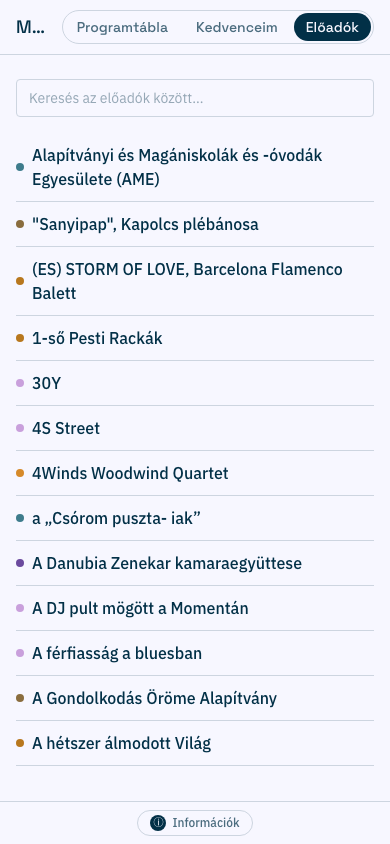
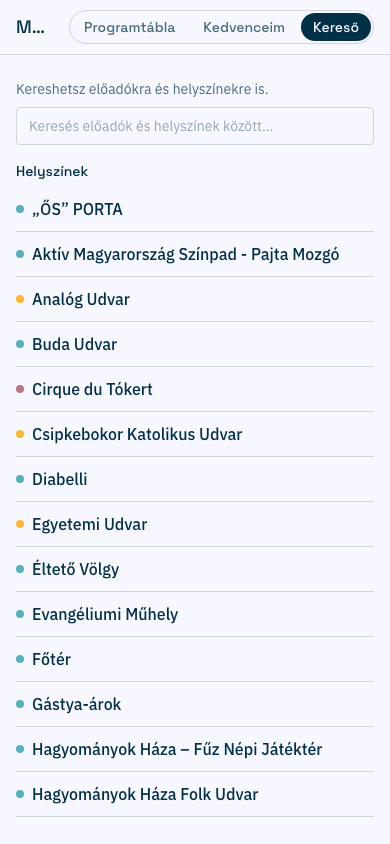
Extend search to venues, jump to their grid row with filters cleared
Renames ArtistsView to SearchView now that it covers both entities.
Clicking a venue result switches to the day it actually runs on (if the
current day doesn't), enables every category/settlement, clears the
favorites-only overrides, and scrolls the grid to that venue's row with
a brief highlight. Tried an icon-only tab label for this, but reverted
to plain text after evaluating it against the app's existing convention.

Changed region(s): [[0.0308, 0.0924, 0.8923, 0.9858], [0.5231, 0.0, 0.9231, 0.0616], [0.1846, 0.0, 0.4615, 0.0616]]

diff --git a/components/FestivalApp.tsx b/components/FestivalApp.tsx
@@ -27,7 +27,7 @@ import { ScheduleGrid } from "./ScheduleGrid";
 import { SelectedPanel } from "./SelectedPanel";
 import { FriendFavoritesPanel } from "./FriendFavoritesPanel";
 import { ExportImportPanel } from "./ExportImportPanel";
-import { ArtistsView } from "./ArtistsView";
+import { SearchView } from "./SearchView";
 import { ProgramInfoModal } from "./ProgramInfoModal";
 import { AppInfoModal } from "./AppInfoModal";
 import { ShareFavoritesModal } from "./ShareFavoritesModal";
@@ -64,7 +64,7 @@ function defaultCategoryIds(categories: FestivalData["categories"]): Set<number>
 }
 
 export function FestivalApp({ data }: { data: FestivalData }) {
-  const [view, setView] = useState<"grid" | "mine" | "artists">("grid");
+  const [view, setView] = useState<"grid" | "mine" | "search">("grid");
   const [categoriesOpen, setCategoriesOpen] = useState(false);
   const [selectedDay, setSelectedDay] = useState(() => defaultDay(data.days));
   const [activeCategoryIds, setActiveCategoryIds] = useState<Set<number>>(
@@ -137,6 +137,31 @@ export function FestivalApp({ data }: { data: FestivalData }) {
     [openProgram, data.programs],
   );
   const artists = useMemo(() => allArtists(data.programs), [data.programs]);
+  // Independent of the currently selected day/filters — every venue that
+  // hosts a program at all, at any point in the festival, so the search can
+  // find it regardless of what's currently shown on the grid.
+  const venuesForSearch = useMemo(
+    () => venuesForPrograms(data.programs),
+    [data.programs],
+  );
+  const [scrollToVenueId, setScrollToVenueId] = useState<number | null>(null);
+
+  const handleSelectVenueFromSearch = (venueId: number) => {
+    const venueDays = data.programs
+      .filter((p) => p.location?.id === venueId)
+      .map((p) => p.day);
+    if (venueDays.length > 0 && !venueDays.includes(selectedDay)) {
+      setSelectedDay([...venueDays].sort()[0]);
+    }
+    // Force every filter open so the venue's programs are guaranteed
+    // visible, regardless of whatever was active before the jump.
+    setActiveCategoryIds(new Set(categoriesWithUncategorized.map((c) => c.id)));
+    setActiveSettlements(new Set(settlements));
+    setOnlyFavorites(false);
+    setOnlyFriendFavorites(false);
+    setView("grid");
+    setScrollToVenueId(venueId);
+  };
 
   const toggleCategory = (id: number) => {
     setActiveCategoryIds((prev) => {
@@ -258,12 +283,12 @@ export function FestivalApp({ data }: { data: FestivalData }) {
             Kedvenceim{selectedPrograms.length > 0 ? ` (${selectedPrograms.length})` : ""}
           </button>
           <button
-            onClick={() => setView("artists")}
+            onClick={() => setView("search")}
             className={`rounded-full px-3 py-1 font-display text-sm transition-colors ${
-              view === "artists" ? "bg-ink text-paper" : "text-ink/70 hover:text-ink"
+              view === "search" ? "bg-ink text-paper" : "text-ink/70 hover:text-ink"
             }`}
           >
-            Előadók
+            Kereső
           </button>
         </div>
       </header>
@@ -407,6 +432,8 @@ export function FestivalApp({ data }: { data: FestivalData }) {
                 onToggleFavorite={toggleFavorite}
                 onOpenProgram={setOpenProgramId}
                 onOpenInfo={() => setIntroManuallyOpened(true)}
+                scrollToVenueId={scrollToVenueId}
+                onScrolledToVenue={() => setScrollToVenueId(null)}
               />
             </div>
           </div>
@@ -475,9 +502,11 @@ export function FestivalApp({ data }: { data: FestivalData }) {
             </div>
           </div>
         ) : (
-          <ArtistsView
+          <SearchView
             artists={artists}
+            venues={venuesForSearch}
             onOpenProgram={setOpenProgramId}
+            onSelectVenue={handleSelectVenueFromSearch}
             onOpenInfo={() => setIntroManuallyOpened(true)}
           />
         )}

diff --git a/components/SearchView.tsx b/components/SearchView.tsx
@@ -1,0 +1,104 @@
+"use client";
+
+import { useState } from "react";
+import type { ArtistSummary } from "@/lib/schedule";
+import type { Location } from "@/lib/types";
+import { settlementColor } from "@/lib/settlementColors";
+import { InfoFooter } from "./InfoFooter";
+
+type Props = {
+  artists: ArtistSummary[];
+  venues: Location[];
+  onOpenProgram: (id: number) => void;
+  onSelectVenue: (venueId: number) => void;
+  onOpenInfo: () => void;
+};
+
+export function SearchView({
+  artists,
+  venues,
+  onOpenProgram,
+  onSelectVenue,
+  onOpenInfo,
+}: Props) {
+  const [query, setQuery] = useState("");
+
+  const normalizedQuery = query.trim().toLowerCase();
+  const filteredArtists = normalizedQuery
+    ? artists.filter((a) => a.name.toLowerCase().includes(normalizedQuery))
+    : artists;
+  const filteredVenues = normalizedQuery
+    ? venues.filter((v) => v.name.toLowerCase().includes(normalizedQuery))
+    : venues;
+
+  return (
+    <div className="mx-auto flex h-full max-w-3xl flex-col px-4 py-6">
+      <p className="mb-2 text-sm text-ink/70">
+        Kereshetsz előadókra és helyszínekre is.
+      </p>
+      <input
+        type="text"
+        value={query}
+        onChange={(e) => setQuery(e.target.value)}
+        placeholder="Keresés előadók és helyszínek között…"
+        className="mb-4 shrink-0 rounded border border-line bg-paper px-3 py-2 text-sm text-ink placeholder:text-ink/40 focus:border-accent focus:outline-none"
+      />
+      <div className="min-h-0 flex-1 overflow-y-auto">
+        <h3 className="mb-1.5 font-display text-sm font-medium text-ink">
+          Helyszínek
+        </h3>
+        {filteredVenues.length === 0 ? (
+          <p className="mb-4 text-sm text-ink/70">
+            Nincs a keresésnek megfelelő helyszín.
+          </p>
+        ) : (
+          <ul className="mb-4 divide-y divide-line">
+            {filteredVenues.map((venue) => (
+              <li key={venue.id}>
+                <button
+                  onClick={() => onSelectVenue(venue.id)}
+                  className="flex w-full items-center gap-2 py-2.5 text-left font-medium text-ink hover:text-accent"
+                >
+                  <span
+                    className="h-2 w-2 shrink-0 rounded-full"
+                    style={{ backgroundColor: settlementColor(venue.city).solid }}
+                    title={venue.city ?? undefined}
+                  />
+                  {venue.name}
+                </button>
+              </li>
+            ))}
+          </ul>
+        )}
+
+        <h3 className="mb-1.5 font-display text-sm font-medium text-ink">
+          Előadók
+        </h3>
+        {filteredArtists.length === 0 ? (
+          <p className="text-center font-body text-ink/70">
+            Nincs a keresésnek megfelelő előadó.
+          </p>
+        ) : (
+          <ul className="divide-y divide-line">
+            {filteredArtists.map((artist) => (
+              <li key={artist.id}>
+                <button
+                  onClick={() => onOpenProgram(artist.firstProgramId)}
+                  className="flex w-full items-center gap-2 py-2.5 text-left font-medium text-ink hover:text-accent"
+                >
+                  <span
+                    className="h-2 w-2 shrink-0 rounded-full"
+                    style={{ backgroundColor: artist.categoryColor }}
+                    title={artist.categoryName}
+                  />
+                  {artist.name}
+                </button>
+              </li>
+            ))}
+          </ul>
+        )}
+        <InfoFooter onOpenInfo={onOpenInfo} />
+      </div>
+    </div>
+  );
+}

diff --git a/components/ScheduleGrid.tsx b/components/ScheduleGrid.tsx
@@ -1,6 +1,6 @@
 "use client";
 
-import { useState } from "react";
+import { useEffect, useRef, useState } from "react";
 import type { Location, Program } from "@/lib/types";
 import {
   extraArtists,
@@ -58,6 +58,8 @@ type Props = {
   onToggleFavorite: (venueId: number) => void;
   onOpenProgram: (id: number) => void;
   onOpenInfo: () => void;
+  scrollToVenueId: number | null;
+  onScrolledToVenue: () => void;
 };
 
 export function ScheduleGrid({
@@ -71,9 +73,34 @@ export function ScheduleGrid({
   onToggleFavorite,
   onOpenProgram,
   onOpenInfo,
+  scrollToVenueId,
+  onScrolledToVenue,
 }: Props) {
   const [openVenueId, setOpenVenueId] = useState<number | null>(null);
   const openVenue = venues.find((v) => v.id === openVenueId) ?? null;
+  const scrollContainerRef = useRef<HTMLDivElement>(null);
+  const [highlightedVenueId, setHighlightedVenueId] = useState<number | null>(
+    null,
+  );
+
+  // Scrolls only vertically (not element.scrollIntoView, which would also
+  // disturb the horizontal time-axis scroll on this w-max-wide row) so a
+  // venue found via search lands just below the sticky header.
+  useEffect(() => {
+    if (scrollToVenueId === null) return;
+    const container = scrollContainerRef.current;
+    const target = document.getElementById(`venue-row-${scrollToVenueId}`);
+    if (container && target) {
+      const containerRect = container.getBoundingClientRect();
+      const targetRect = target.getBoundingClientRect();
+      container.scrollTop += targetRect.top - containerRect.top - HEADER_HEIGHT;
+      setHighlightedVenueId(scrollToVenueId);
+      const timeout = setTimeout(() => setHighlightedVenueId(null), 2000);
+      onScrolledToVenue();
+      return () => clearTimeout(timeout);
+    }
+    onScrolledToVenue();
+  }, [scrollToVenueId, onScrolledToVenue]);
 
   const nowTs = toScheduleTimestamp(useNow());
   const showNowLine = nowTs >= rangeStartTs && nowTs <= rangeEndTs;
@@ -115,7 +142,7 @@ export function ScheduleGrid({
   })();
 
   return (
-    <div className="flex h-full flex-col overflow-auto">
+    <div ref={scrollContainerRef} className="flex h-full flex-col overflow-auto">
       <div
         className="sticky top-0 z-20 flex w-max shrink-0 bg-paper"
         style={{ height: HEADER_HEIGHT }}
@@ -176,10 +203,14 @@ export function ScheduleGrid({
             selectedIds.has(p.id),
           );
         const settlement = settlementColor(venue.city);
+        const isHighlighted = venue.id === highlightedVenueId;
         const row = (
           <div
             key={venue.id}
-            className="flex w-max shrink-0 border-b border-line/60 last:border-b-0"
+            id={`venue-row-${venue.id}`}
+            className={`flex w-max shrink-0 border-b border-line/60 transition-shadow last:border-b-0 ${
+              isHighlighted ? "shadow-[inset_0_0_0_2px_var(--accent)]" : ""
+            }`}
           >
             <div
               className="sticky left-0 z-10 flex shrink-0 flex-col items-center justify-center gap-0.5 border-t-[3px] px-1 py-1 text-center font-display text-ink"

diff --git a/components/TutorialModal.tsx b/components/TutorialModal.tsx
@@ -26,13 +26,13 @@ const STEPS: Step[] = [
       "Kattints egy helyszín nevére a rácson, majd nyomd meg a csillagos gombot, a csillagozott helyszín ezután mindig a lista tetején marad, nem kell mindig legörgetned hozzá.",
   },
   {
-    heading: "2. Az Előadók fül",
+    heading: "2. Kereső",
     src: "/tutorial/02-eloadok.png",
-    alt: "Az Előadók nézet listája",
+    alt: "Kereső nézet előadók és helyszínek listájával",
     width: 390,
     height: 844,
     caption:
-      "Itt ábécésorrendben, kereshetően megtalálod az összes fellépőt, egy névre kattintva megnyílik az előadó legközelebbi fellépése.",
+      "A Kereső fülön kereshetsz előadók és helyszínek között is. Egy előadóra kattintva megnyílik a legközelebbi fellépése; egy helyszínre kattintva a Programtábla nézetbe ugrasz, egyenesen az adott helyszín sorához, minden szűrő feloldva, hogy biztosan lásd az összes ottani programot.",
   },
   {
     heading: "3. Szűrési lehetőségek",

diff --git a/CLAUDE.md b/CLAUDE.md
@@ -1210,3 +1210,64 @@ excluding one friend visibly drops their program from the grid while the
 other's stays — confirmed by both DOM-class assertions and an actual
 before/after count of rendered grid elements, not just the chip's own
 visual state.
+
+**Search extended to venues, not just artists** (`components/ArtistsView.tsx`
+renamed to `components/SearchView.tsx`, since its scope grew beyond just
+"előadók"): the same single search input now filters two separate,
+independently-labeled sections — "Helyszínek" (new) and "Előadók"
+(unchanged) — each showing its full unfiltered list when the query is
+empty, matching the pre-existing artist-search behavior rather than
+inventing a different empty-state convention for venues. The venue list
+comes from a *new*, day/filter-independent `venuesForSearch` memo in
+`FestivalApp.tsx` (`venuesForPrograms(data.programs)` over the *entire*
+unfiltered program set) — deliberately not the same `venues` the grid
+itself renders, which is scoped to the currently selected day/category/
+settlement and would make a venue impossible to find on any other day.
+Only venues that actually host at least one program anywhere in the
+festival are searchable (not all ~104 known locations from `/api/v1/map`)
+since a program-less venue would have no grid row to jump to at all.
+
+Clicking a venue result (`onSelectVenue`, threaded down to `SearchView`)
+does more than just switch tabs — `FestivalApp.tsx`'s
+`handleSelectVenueFromSearch`: (1) switches `selectedDay` to the earliest
+day that venue actually has a program on, *unless* the currently selected
+day already has one there (checked directly against `data.programs`, not
+the day-scoped `venues`); (2) sets every category and every settlement
+active and turns off both `onlyFavorites`/`onlyFriendFavorites`, so the
+venue's programs are guaranteed visible regardless of whatever filters
+were active before the jump — the same "make sure it's actually visible"
+guarantee `visiblePrograms`' selected-program bypass already gives
+individual programs, just triggered explicitly here instead of keyed off
+`selectedIds`; (3) switches `view` to `"grid"` and sets a new
+`scrollToVenueId` state, consumed by `ScheduleGrid.tsx`.
+
+`ScheduleGrid.tsx` scrolls to the target venue's row via a `ref` on its
+own scroll container plus `id={`venue-row-${venue.id}`}` on each row —
+deliberately **not** `element.scrollIntoView()`, because each row is
+`w-max` (as wide as the full time axis), and letting the browser decide
+how to bring a very wide element into view risks also dragging the
+independent horizontal (time-axis) scroll position along with it. Instead
+it computes the exact vertical delta via `getBoundingClientRect()` on
+both the container and the target and adjusts `scrollTop` alone, leaving
+`scrollLeft` untouched. A brief 2-second `--accent` inset-ring highlight
+(local `highlightedVenueId` state, separate from the `scrollToVenueId`
+prop that clears immediately once consumed) marks which row is the
+actual target, since a plain scroll with no visual confirmation would
+leave it ambiguous which of several similar-looking rows was found.
+Verified against real API data for a venue confirmed (via direct query)
+to run on only one specific day, starting the test from a *different*
+day with the category filter deliberately narrowed first — the
+day-switch, full filter reset, and correct scroll position all had to
+actually fire, not just no-op because the starting state already
+happened to satisfy them.
+
+**Tab icon tried, then reverted to plain text**: the "Kereső" tab (this
+same search feature) briefly used a text-glyph magnifying glass (`⌕`),
+first at the same size as its sibling tabs, then enlarged/bolded on
+request — but was ultimately reverted back to a plain text label
+("Kereső"), matching every other top-level tab and this app's general
+preference (confirmed again here) for legible text over icons where
+there's room for a label. Worth remembering if an icon-only tab is
+requested again: `⌕` did render as a recognizable magnifying glass once
+zoomed in, despite looking ambiguous at native size in a screenshot —
+not itself a reason it was dropped.
